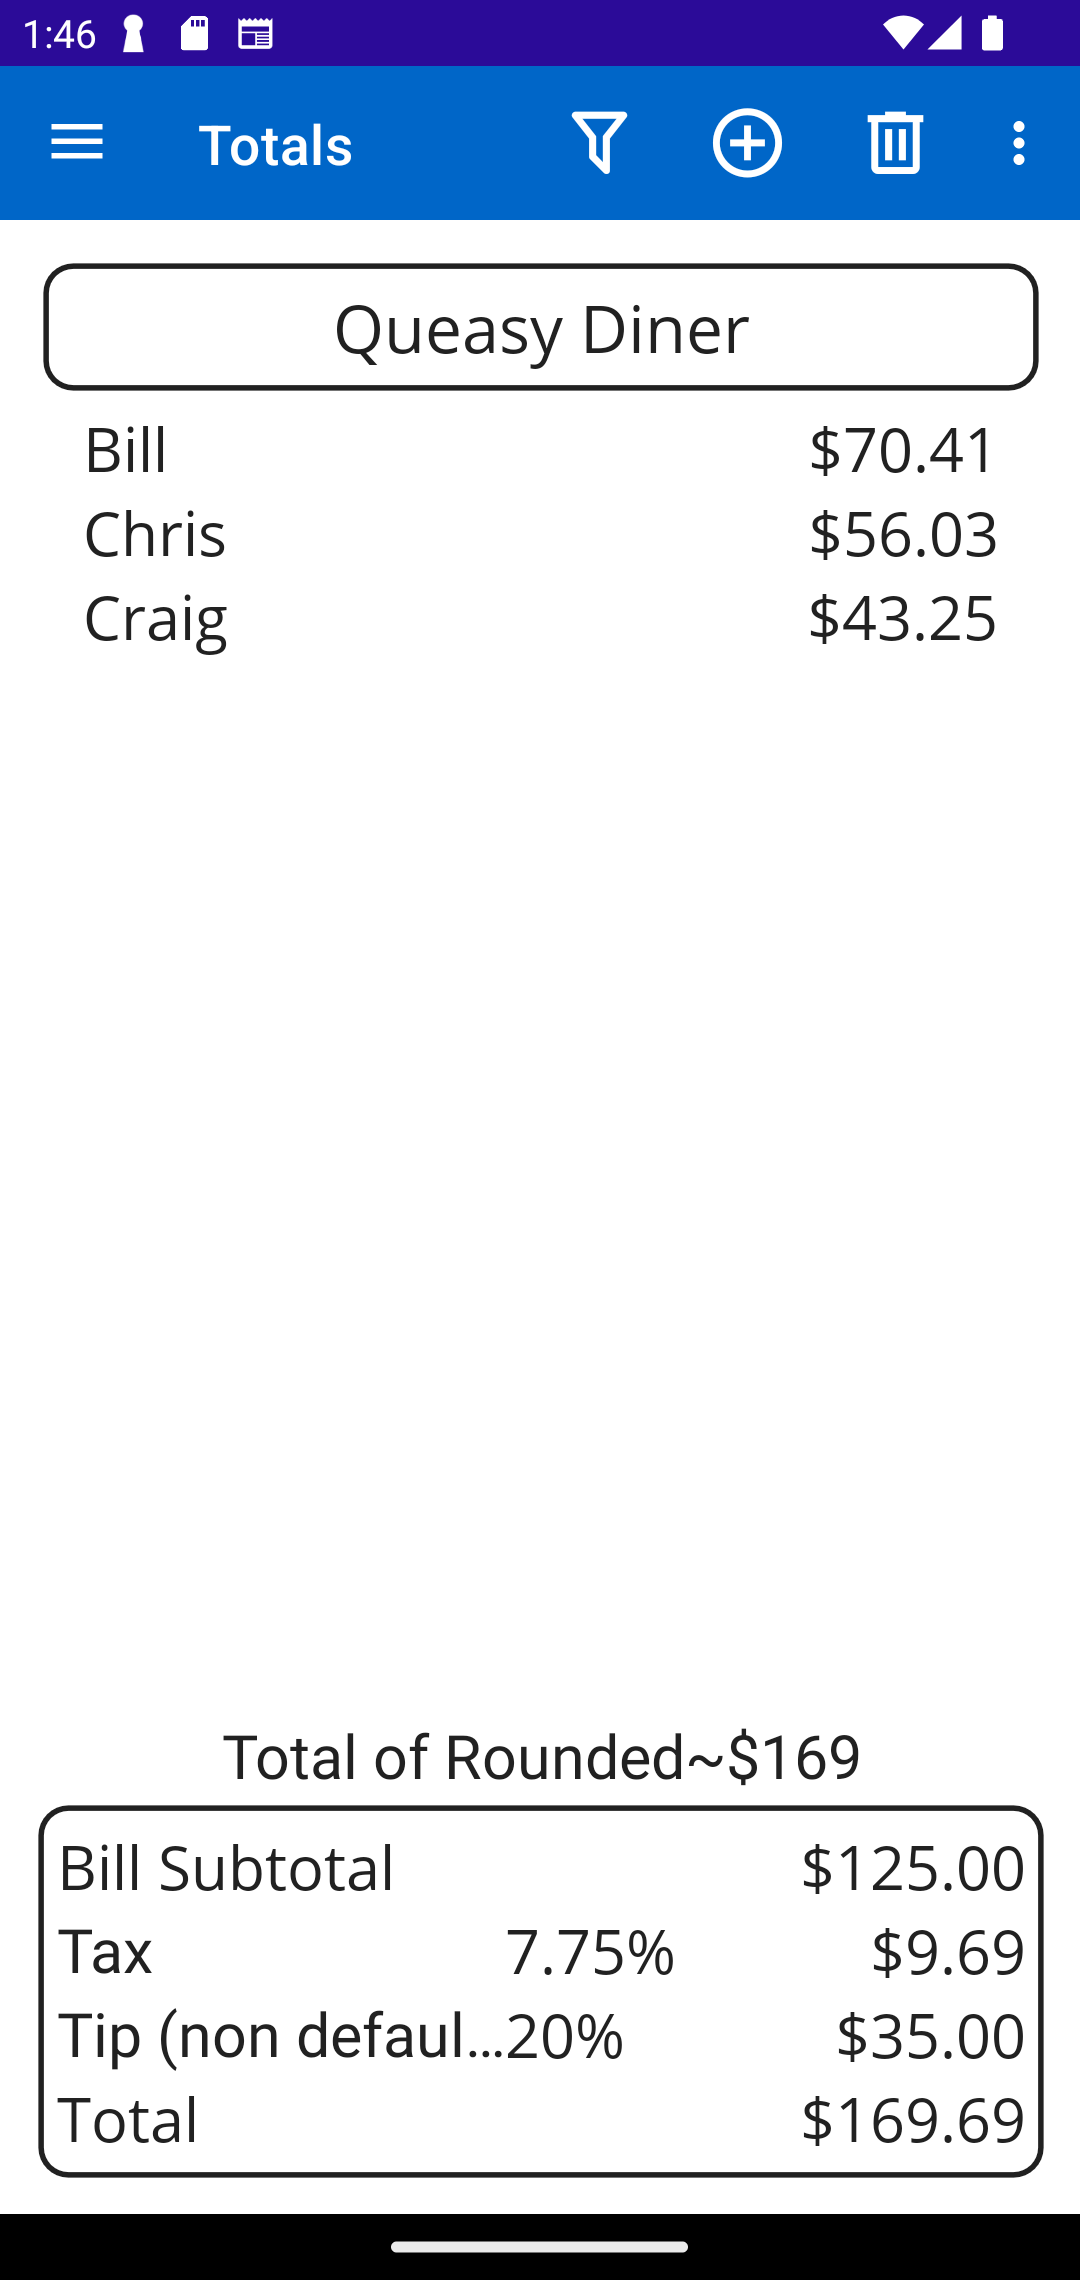
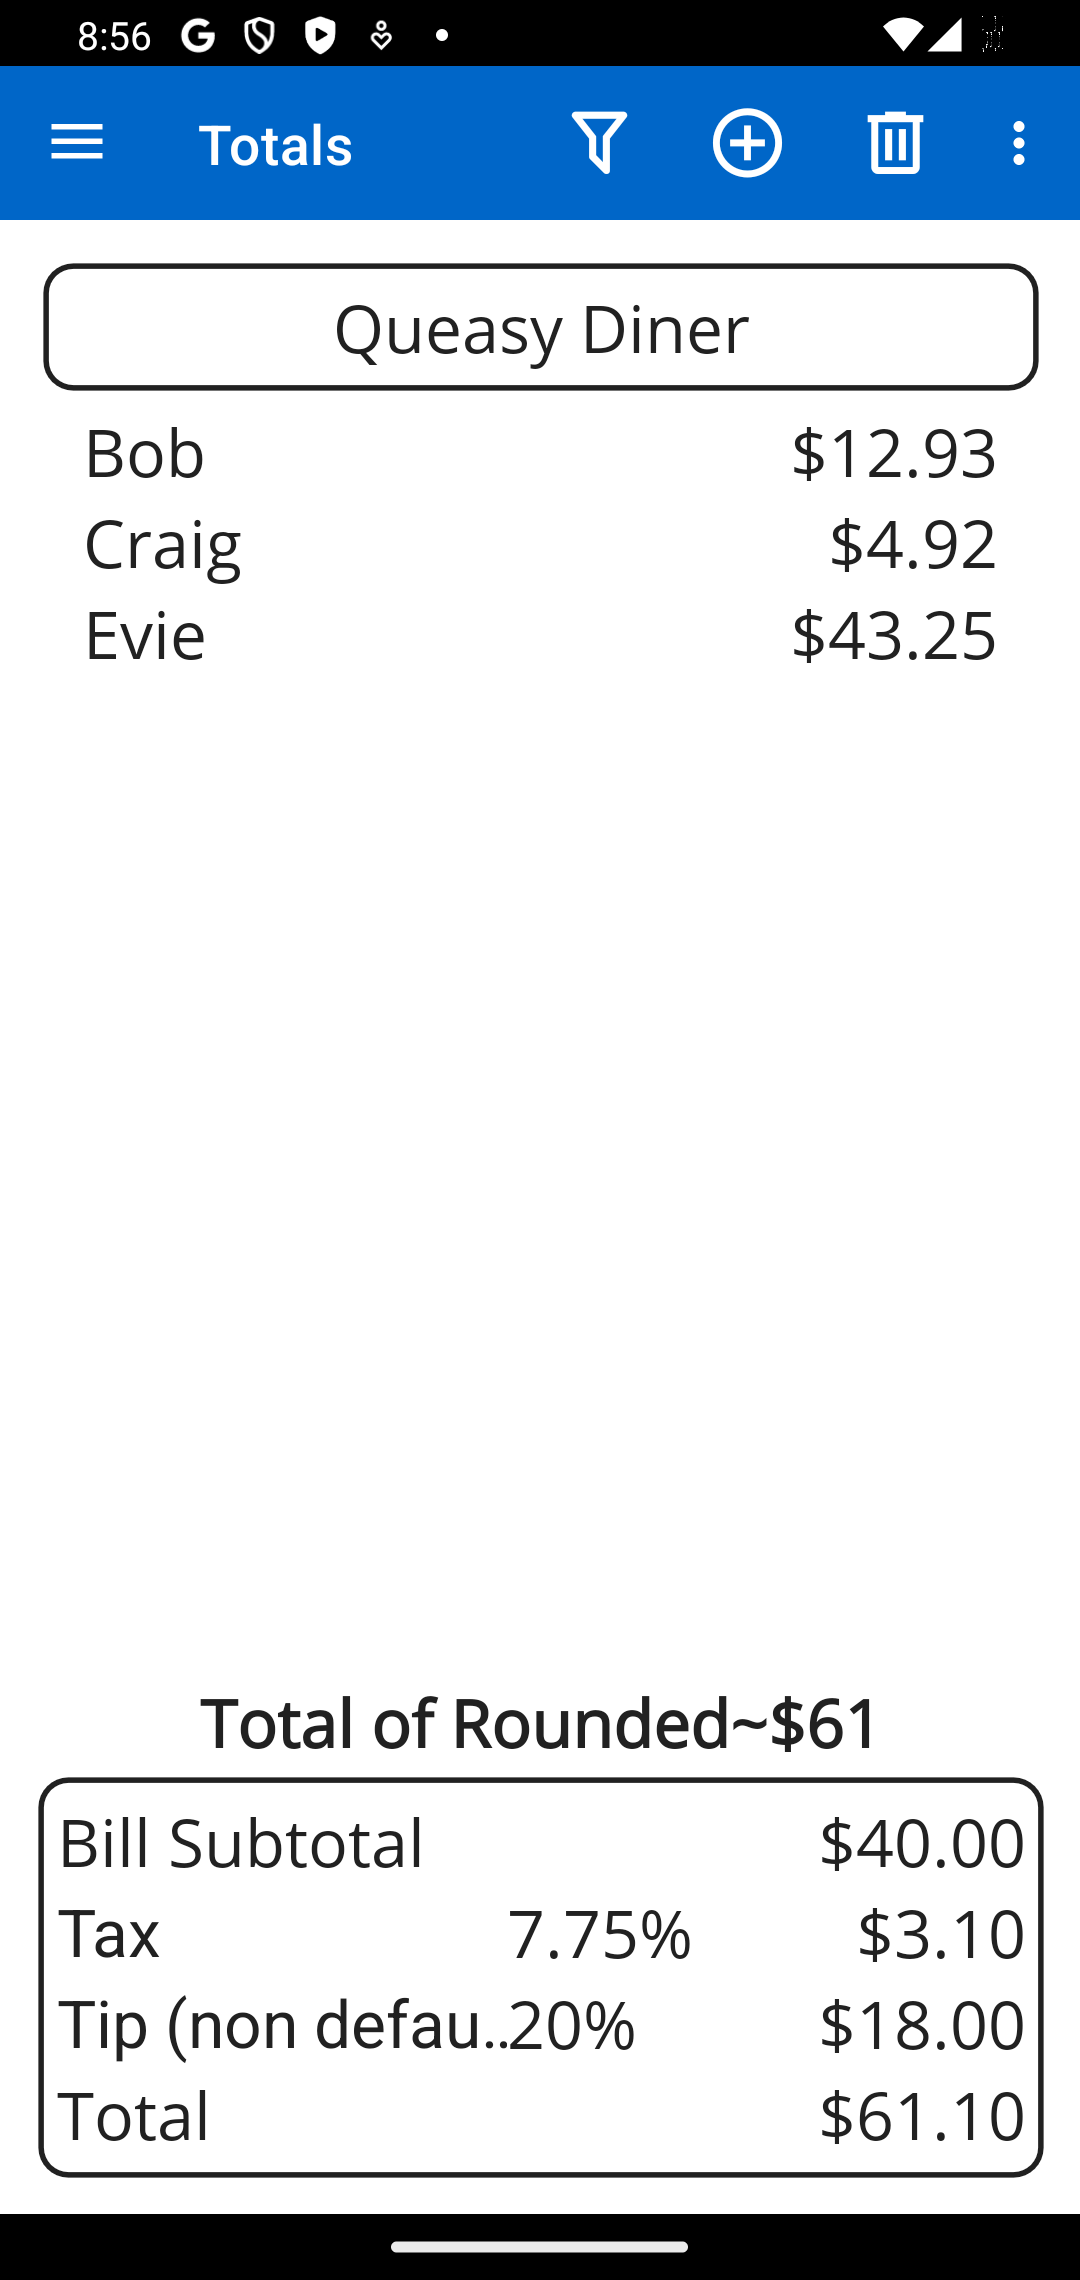
Improved Sample Entities
When DivisiBill is first installed it creates fake entities. This change makes the fake People, Bills and Venues more anonymous.

diff --git a/DivisiBill/Views/VenueListPage.xaml b/DivisiBill/Views/VenueListPage.xaml
@@ -14,7 +14,7 @@
              Title="Venue List">
     <ContentPage.Resources>
         <DataTemplate x:Key="WithSwipe">
-            <Grid ColumnDefinitions="*,*,*">
+            <Grid ColumnDefinitions="*,*,*" RowDefinitions="*,*">
                 <SwipeView Grid.ColumnSpan="3" x:DataType="model:Venue">
                     <SwipeView.LeftItems>
                         <SwipeItems Mode="Execute">
@@ -56,7 +56,6 @@
                             <!--#endregion-->
                             <Label Grid.Column="2" Text="{Binding Distance, Converter={StaticResource Distance}}" FontSize="{StaticResource FontSizeSmall}" VerticalOptions="Center" HorizontalOptions="End"/>
                         </Grid>
-                        <BoxView Color="{AppThemeBinding Light={StaticResource Gray900}, Dark={StaticResource White}}" HeightRequest="1"/>
                     </VerticalStackLayout>
                     <!--#endregion-->
                 </SwipeView>
@@ -71,6 +70,7 @@
                                               Command="{Binding Source={RelativeSource AncestorType={x:Type vm:VenueListViewModel}}, Path=ShowDetailsCommand, x:DataType=vm:VenueListViewModel}"/>
                     </Rectangle.GestureRecognizers>
                 </Rectangle>
+                <BoxView Grid.Row="1" Grid.ColumnSpan="3" Color="{AppThemeBinding Light={StaticResource Gray900}, Dark={StaticResource White}}" HeightRequest="1"/>
                 <!--#endregion-->
             </Grid>
         </DataTemplate>

diff --git a/DivisiBill/Models/Meal.Core.cs b/DivisiBill/Models/Meal.Core.cs
@@ -87,7 +87,8 @@ public partial class Meal : ObservableObjectPlus
                 {
                     CurrentMeal = new Meal();
                     CurrentMeal.LoadFakeSettings();
-                    CurrentMeal.Summary.CreationTime = DateTime.MinValue; // flag the meal as default with no side effects
+                    CurrentMeal.Summary.CreationTime = DateTime.Now;
+                    LocalMealList.Insert(0, CurrentMeal.Summary); // ensure it is in the local meal list
                 }
                 Application.Current.Resources["MealViewModel"] = new ViewModels.MealViewModel(); // Reinitialize MealViewModel
                 SnapshotNeeded.IsPaused = true;
@@ -326,12 +327,11 @@ public partial class Meal : ObservableObjectPlus
                     meal.SaveToFile();
                     meal.Summary.IsLocal = true;
                 }
-                // If the original list was empty, new items may be added, otherwise they must be inserted in the correct place
+                // If the original list was empty, the new item may be added, otherwise it must be inserted in the correct place
                 if (wasEmpty)
                     LocalMealList.Add(meal.Summary);
                 else
                     LocalMealList.Upsert(meal.Summary);
-                // remove all meals, not just one, only change current if old was removed.
                 localMealNames.Add(meal.Summary.Id); // to ensure we do not add duplicates
             }
         }
@@ -604,7 +604,6 @@ public partial class Meal : ObservableObjectPlus
     {
         if (string.IsNullOrWhiteSpace(VenueName))
             VenueName = "Queasy Diner";
-        CreationTime = DateTime.MinValue; // flag the bill as fake
         CreateFakeCosts();
         CreateFakeLineItems();
         TaxRate = 0.0775;
@@ -618,18 +617,18 @@ public partial class Meal : ObservableObjectPlus
         // Note that they are added in order
         LocalMealList.Add(new MealSummary()
         {
-            VenueName = "Fake McDonalds",
+            VenueName = Venue.AllVenues[1].Name,
             CreationTime = new DateTime(2021, 1, 2, 3, 4, 5),
         });
         LocalMealList.Add(new MealSummary()
         {
-            VenueName = "Fake California Pizza Kitchen",
+            VenueName = Venue.AllVenues[2].Name,
             CreationTime = new DateTime(2010, 11, 12, 14, 43, 20),
             FileSelected = true
         });
         LocalMealList.Add(new MealSummary()
         {
-            VenueName = "Fake McDonalds",
+            VenueName = Venue.AllVenues[1].Name,
             CreationTime = new DateTime(2010, 11, 11, 11, 11, 11),
         });
     }

diff --git a/DivisiBill/Models/Person.cs b/DivisiBill/Models/Person.cs
@@ -36,7 +36,7 @@ public class Person : INotifyPropertyChanged, IComparable<Person>
         List<Person> defaultPeople = [
             new("8C720F0B-7062-4482-B55E-E7E19DCF3791") {FirstName = "John",       LastName = "Smith"},
             new("8C720F0B-7062-4482-B55E-E7E19DCF3792") {FirstName = "Robert",     LastName = "Smith",                  Nickname="Bob"},
-            new("8C720F0B-7062-4482-B55E-E7E19DCF3793") {FirstName = "Chris",      LastName = "Sells"},
+            new("8C720F0B-7062-4482-B55E-E7E19DCF3793") {FirstName = "Thomas",     LastName = "Green",                  Nickname="Tom" },
             new("8C720F0B-7062-4482-B55E-E7E19DCF3794") {FirstName = "Craig",      LastName = "Brown"},
             new("8C720F0B-7062-4482-B55E-E7E19DCF3795") {                                                               Nickname = "Support",     Email = "support@autopl.us"},
             new("8C720F0B-7062-4482-B55E-E7E19DCF3796") {FirstName = "Evangeline", LastName = "Throatwarbler-Mangrove", Nickname="Evie"}

diff --git a/DivisiBill/Models/Venue.cs b/DivisiBill/Models/Venue.cs
@@ -39,12 +39,11 @@ public class Venue : INotifyPropertyChanged, IComparable<Venue>
     private static void LoadDefaultVenues()
     {
         List<Venue> initialVenues = [
-            new() {Name = "California Pizza Kitchen", Latitude= 33.6120, Longitude = -117.7080, Accuracy = 10},
-            new() {Name = "Claim Jumper"},
-            new() {Name = "Kings",                    Latitude= 33.6132, Longitude = -117.7084, Accuracy = 10},
-            new() {Name = "MacDonalds"},
             new() {Name = "Queasy Diner",             Latitude= 20.79, Longitude = -156.24, Accuracy = 700},
-            new() {Name = "Wendys"},
+            new() {Name = "Bad Pizza",                Latitude= 33.6120, Longitude = -117.7080, Accuracy = 10},
+            new() {Name = "Too Much Food"},
+            new() {Name = "Bad Burgers"},
+            new() {Name = "Really bad burgers"},
         ];
         initialVenues.Sort();
         foreach (Venue v in initialVenues)
